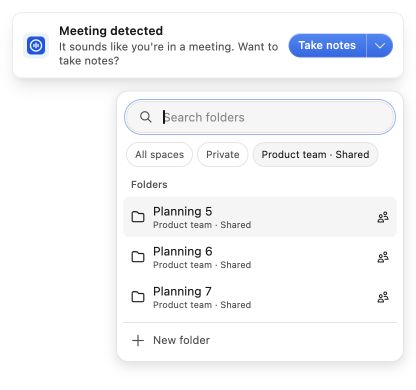
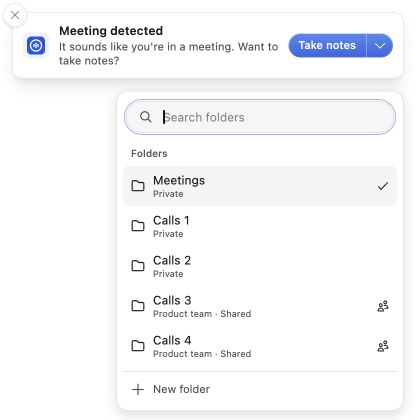
fix: show shared folders in unified notification results

diff --git a/src/components/MeetingNotificationFolderPicker.tsx b/src/components/MeetingNotificationFolderPicker.tsx
@@ -32,7 +32,6 @@ export function MeetingNotificationFolderPicker({
 }: Props) {
   const { t } = useTranslation();
   const [query, setQuery] = useState("");
-  const [filterSpaceId, setFilterSpaceId] = useState<number | null>(null);
   const [draft, setDraft] = useState("");
   const [spaceId, setSpaceId] = useState<number | null>(null);
   const [locationOpen, setLocationOpen] = useState(false);
@@ -50,18 +49,16 @@ export function MeetingNotificationFolderPicker({
     () =>
       folders.filter(
         (folder) =>
-          (filterSpaceId === null || folder.space_id === filterSpaceId) &&
-          (folderMatchesQuery(folder, t, query.trim()) ||
-            (context &&
-              meetingFolderLabel(context, folder, t)
-                .toLowerCase()
-                .includes(query.trim().toLowerCase())))
+          folderMatchesQuery(folder, t, query.trim()) ||
+          (context &&
+            meetingFolderLabel(context, folder, t)
+              .toLowerCase()
+              .includes(query.trim().toLowerCase()))
       ),
-    [context, folders, filterSpaceId, query, t]
+    [context, folders, query, t]
   );
   const groups = useMemo(() => {
-    if (query.trim() || filterSpaceId !== null)
-      return [{ label: t(key("folders")), items: matchingFolders }];
+    if (query.trim()) return [{ label: t(key("folders")), items: matchingFolders }];
     const recent = (context?.recentDestinations ?? []).flatMap((ref) =>
       folders.filter((f) => f.id === ref.folderId && f.space_id === ref.spaceId)
     );
@@ -80,11 +77,11 @@ export function MeetingNotificationFolderPicker({
       { label: t(key("recent")), items: recent },
       { label: t(key("folders")), items: fallback },
     ].filter((g) => g.items.length);
-  }, [context, folders, query, filterSpaceId, matchingFolders, selected, t]);
+  }, [context, folders, query, matchingFolders, selected, t]);
   const visible = groups.flatMap((g) => g.items);
   useEffect(() => {
     setActive(0);
-  }, [query, filterSpaceId]);
+  }, [query]);
   useEffect(() => {
     if (mode === "form" && priorMode.current !== "form") {
       setDraft(matchingFolders.length ? "" : query.trim());
@@ -304,29 +301,6 @@ export function MeetingNotificationFolderPicker({
             </div>
           ) : (
             <>
-              {context.spaces.some((space) => space.kind === "team") && (
-                <div className="meeting-folder-spaces" role="group" aria-label={t(key("location"))}>
-                  <button
-                    type="button"
-                    aria-pressed={filterSpaceId === null}
-                    onClick={() => setFilterSpaceId(null)}
-                  >
-                    {t(key("allSpaces"))}
-                  </button>
-                  {context.spaces.map((space) => (
-                    <button
-                      type="button"
-                      key={space.id}
-                      aria-pressed={filterSpaceId === space.id}
-                      onClick={() => setFilterSpaceId(space.id)}
-                    >
-                      {space.kind === "private"
-                        ? t(key("private"))
-                        : `${space.name} · ${t(key("shared"))}`}
-                    </button>
-                  ))}
-                </div>
-              )}
               <div
                 className="meeting-folder-results"
                 role="listbox"

diff --git a/test/components/meetingNotificationFolderPicker.test.js b/test/components/meetingNotificationFolderPicker.test.js
@@ -464,13 +464,15 @@ test("initial surface includes tall localized card layout before entrance animat
   assert.ok(reports.every((report) => report.contentHeight >= 130));
 });
 
-test("teamspace filter reveals its exact folders beyond the five suggestions without selecting", async (t) => {
+test("Shared folders appear alongside Private folders in the same search results", async (t) => {
   const c = await mount(t);
   await c.click(c.byLabel("Choose meeting folder"));
-  await c.click(c.button("Team · Shared"));
+  assert.equal(c.container.querySelector('[role="group"][aria-label="Location"]'), null);
+  await c.type(c.byLabel("Search folders"), "Calls");
   assert.equal(c.calls.length, 0);
+  assert.ok(c.byLabel("Private / Calls 1"));
   assert.ok(c.byLabel("Team / Calls 6 · Shared"));
-  assert.equal(c.container.querySelectorAll('#meeting-folder-results [role="option"]').length, 1);
+  assert.equal(c.container.querySelectorAll('#meeting-folder-results [role="option"]').length, 7);
   await c.click(c.byLabel("Team / Calls 6 · Shared"));
   assert.deepEqual(c.calls, [["select", { folderId: 7, spaceId: 2 }]]);
   await c.click(c.byLabel("Choose meeting folder"));

diff --git a/src/components/meetingNotification.css b/src/components/meetingNotification.css
@@ -92,29 +92,6 @@
   color: var(--color-foreground);
   font-size: 12px;
 }
-.meeting-folder-spaces {
-  display: flex;
-  flex-wrap: wrap;
-  gap: 4px;
-  padding: 6px 3px 0;
-  max-height: 72px;
-  overflow: auto;
-}
-.meeting-folder-spaces button {
-  max-width: 100%;
-  overflow-wrap: anywhere;
-  border-radius: 999px;
-  padding-block: 4px;
-  padding-inline: 8px;
-  font-size: 10px;
-  text-align: start;
-  color: var(--color-muted-foreground);
-  border: 1px solid var(--color-border);
-}
-.meeting-folder-spaces button[aria-pressed="true"] {
-  background: var(--color-muted);
-  color: var(--color-foreground);
-}
 .meeting-folder-results {
   max-height: 240px;
   overflow: auto;

diff --git a/docs/meeting-folder-picker-validation.md b/docs/meeting-folder-picker-validation.md
@@ -135,10 +135,10 @@ The exact existing `ow-meeting-folder-rig-2511` worktree and
   localized folder placeholder and no shortcut badge. Search and Name opt out
   of the global embossed input style so the picker has a single thin focus
   indication. Form fields use logical 10px inset.
-- All spaces / Private / named Shared space filters reveal every folder within
-  the chosen space, including folders outside the five initial suggestions.
-  Filtering never selects or records. Search also matches the displayed
-  space/folder path. Selection retains the exact space and folder IDs, and
+- Private and Shared folders appear together in the results list, with no
+  separate space-filter section. Shared rows identify their teamspace. Search
+  matches the displayed space/folder path across all folders, including those
+  outside the five initial suggestions. Selection retains the exact space and folder IDs, and
   new-folder creation still starts Private after a Shared choice. Matching
   paths do not incorrectly prefill a new folder name.
 - Identical native geometry reports no longer call `setBounds` again. Ownership,
@@ -152,7 +152,7 @@ The exact existing `ow-meeting-folder-rig-2511` worktree and
 
 ### Evidence and limits
 
-Final code: **7,051 tests, 7,036 passed, zero failures, 14 skips, one TODO** with
+At code commit `3067a4dbf`: **7,051 tests, 7,036 passed, zero failures, 14 skips, one TODO** with
 `REQUIRE_DB_TESTS=1` under Node 24.20.0. Two earlier runs encountered the known
 local `better-sqlite3` native cleanup crash. Rebuilding the unchanged dependency
 against official Node 24.18.0 headers produced the successful run; the rig's
@@ -170,7 +170,7 @@ are **browser visual evidence, not native capture or recording acceptance**.
 Light/dark, Arabic RTL, Name padding and a 300px surface were checked. At 300px,
 the picker, search and New folder action have no horizontal overflow.
 
-![Shared folder filter, light](screenshots/meeting-folder-picker/feedback-light-team.png)
+![Private and Shared folders in one list, light](screenshots/meeting-folder-picker/feedback-light-team.png)
 ![Private-first form, light](screenshots/meeting-folder-picker/feedback-light-form.png)
 ![Dark Arabic RTL](screenshots/meeting-folder-picker/feedback-dark-rtl.png)
 ![300px surface](screenshots/meeting-folder-picker/feedback-narrow.png)
@@ -178,8 +178,9 @@ the picker, search and New folder action have no horizontal overflow.
 The live rig was restarted only after restoring its Electron binding. Its
 signed-in staging account/calendar profile remains intact; the installed app
 was not stopped. Native startup and a protected self-rendered compact prompt
-were checked. The preserved runtime-only trigger enters the real detection
-engine with preference, recording and ownership gates intact. No recording or
+were checked. The prior runtime-only trigger entered the real detection engine with
+preference, recording and ownership gates intact; the subsequent normal restart
+removed that hook. No recording or
 folder creation was performed by this feedback verification in the real account.
 
 **Native flash acceptance remains open.** Source tracing and regression tests
@@ -200,14 +201,19 @@ The existing worktree is intentionally kept at Josh's request and remains the
 running dev rig. No new worktree was created. Profile reset/teardown, merge,
 release, deployment and unrelated work were not performed.
 
-At verification, Electron PID `89932` started October 5 at 19:57:02 local time,
-owned by the existing launchd rig. Its process-lifetime-only SIGUSR2 hook is
-recorded by the rig's updated `trigger-pid.txt`; **verify PID, start time and
-executable path before any signal**. A normal restart removes the hook.
-`main.js` was restored byte-for-byte before committing. Local diagnostic state
-and the hook are retained in `.superpowers/sdd/meeting-folder-feedback/` because
-the running probe writes there; they are ignored and are not product changes.
-The original launcher/profile remain at the paths in the Titan kickoff handover.
+The rig was restarted normally after the unified-results correction, preserving
+its existing profile. The prior PID `89932` and process-lifetime SIGUSR2 hook are
+no longer active; the obsolete `trigger-pid.txt` was removed. Do not signal the
+new process. `main.js` remains unchanged. Local diagnostic evidence remains
+ignored in `.superpowers/sdd/meeting-folder-feedback/`. The original launcher
+and profile remain at the paths in the Titan kickoff handover.
+
+The unified-results correction passed 23 focused picker/navigation/refresh tests,
+typecheck, scoped ESLint, locale consistency, formatting and renderer build.
+A fresh Codex review found no actionable regressions. Updated browser captures
+show mixed Private/Shared rows in light, dark Arabic RTL and at 300px. The full
+database suite above predates this narrow correction and was not repeated.
+Josh has not yet tested the native flash behavior.
 
 Next: choose an existing folder and complete Create & select in the native
 notification, confirming only the saved check appears; then perform the pending
